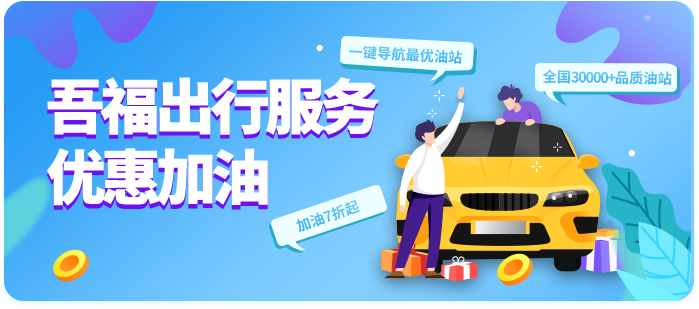
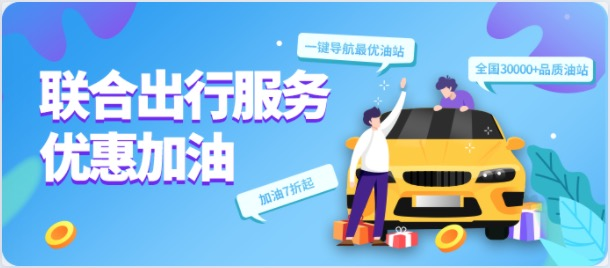
修改部分ui页面

diff --git a/index.html b/index.html
@@ -6,7 +6,7 @@
     <meta name="viewport" content="width=device-width,initial-scale=1.0">
     <link rel="shortcut icon" type="image/x-icon" href="static/favicon.ico" rel="external nofollow" />
     <script src="https://res.wx.qq.com/open/js/jweixin-1.6.0.js"></script>
-    <title>吾福车生活</title>
+    <title>联合权益</title>
     <!-- <script src="./static/vconsole.min.js"></script> -->
     <script>
       // var vConsole = new VConsole();

diff --git a/src/router/index.js b/src/router/index.js
@@ -17,7 +17,7 @@ export default new Router({
 			name: 'index',
 			component: () => import('@/view/index/index.vue'),
 			meta:{
-				title:'吾福车生活'
+				title:'联合权益'
 			}
 		},
 		{
